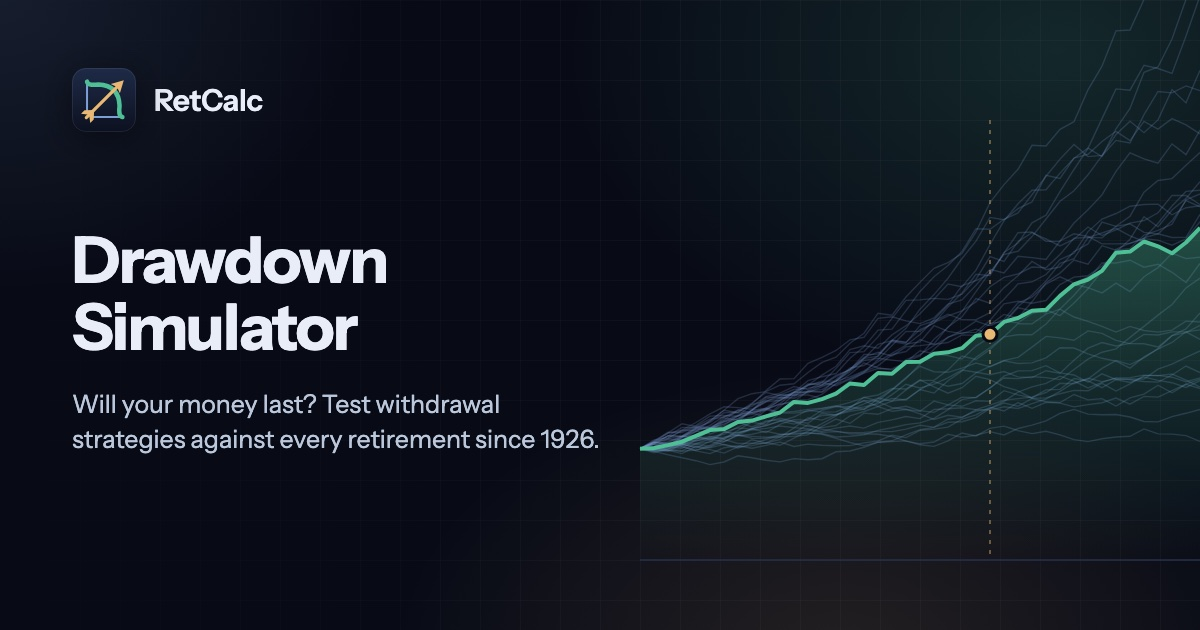
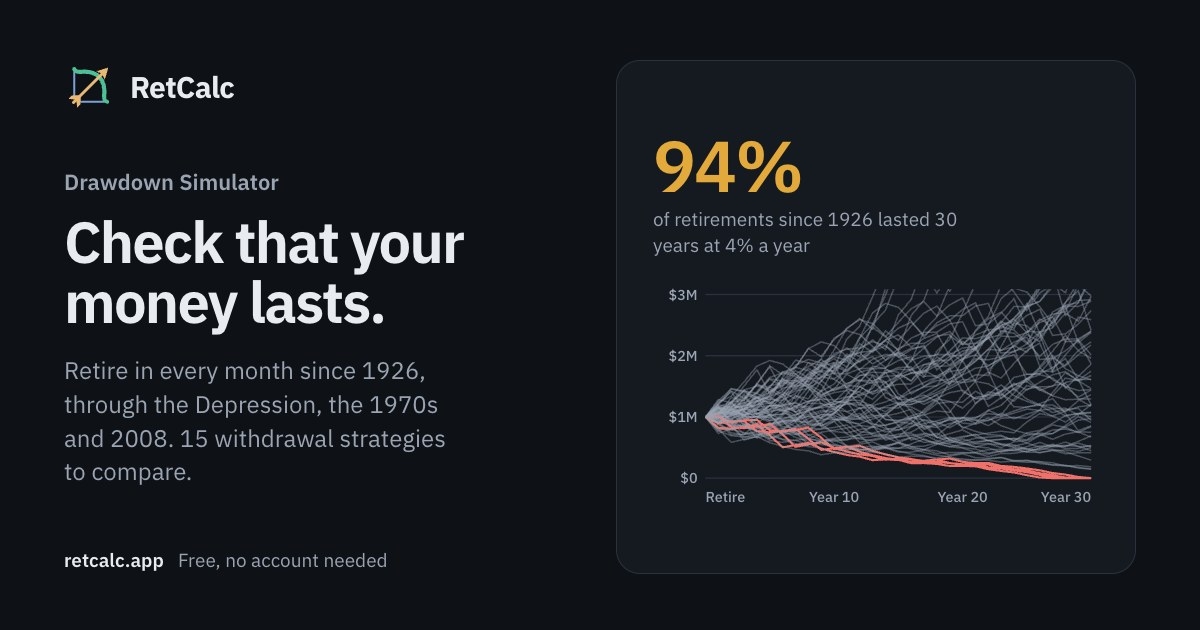
Link-preview cards in the redesign's look, with updated wording
Each page's card is now drawn from the site itself (app/og-card, dev only)
with the homepage's chart views, the dark theme's tokens and IBM Plex Sans,
and saved by scripts/og/render.mjs. The Calculator gets its own card. The
words live in lib/cards.ts and double as the image's alt text; the strategy
pages' ledes move to their own list, unchanged.

diff --git a/web/lib/cards.ts b/web/lib/cards.ts
@@ -1,0 +1,93 @@
+/* Each page's link-preview card (the picture a link shows in Messages,
+   Slack or a social feed): the tool's name, the question it answers, one
+   line under it, and which of the homepage's charts it shows. The cards are
+   drawn by app/og-card (development only) and saved as public/og/<slug>.jpg
+   by scripts/og/render.mjs; the words are also the image's alt text.
+   Pages without a card of their own (About, Privacy, Account) use the
+   site's card, public/og.png, drawn from "home". */
+import type { Slug } from "@/lib/site";
+
+export type CardChart = "fan" | "growth" | "score" | "fire" | "bridge" | "health" | "cloud" | "roth"
+  | "tax" | "rentbuy" | "mortgage" | "budget" | "college" | "debt" | "tools";
+
+export interface Card {
+  /** The tool's name, small above the title. */
+  kick?: string;
+  title: string;
+  text: string;
+  chart: CardChart;
+  /** Show the Drawdown Simulator's "lasted 30 years" figure (only where the
+      page opens on the same 4% plan the figure comes from). */
+  lasted?: boolean;
+}
+
+const SINCE = "every retirement since 1926";
+
+export const CARDS: Partial<Record<Slug, Card>> = {
+  home: { title: "Know your number.", chart: "fan", lasted: true,
+    text: "Retirement planning tools that check your plan against every market since 1926." },
+  calculator: { kick: "Retirement Calculator", title: "See what your savings grow to.", chart: "growth",
+    text: "Your age, what you've saved and what you add each month, and what it all grows to by retirement." },
+  advanced: { kick: "Advanced Calculator", title: "Taxes, fees and market swings, built in.", chart: "growth",
+    text: "Account types, inflation, fees and a glide path, with every year laid out." },
+  stages: { kick: "Stages Calculator", title: "A plan that changes as your life does.", chart: "growth",
+    text: "Save in stages, with different contributions, returns and mixes for each." },
+  guide: { kick: "Retirement Readiness Guide", title: "Get a readiness score.", chart: "score",
+    text: "One question at a time: a score out of 100, a plan, and what to do next." },
+  tools: { kick: "RetCalc", title: "A calculator, a guide and 13 planning tools.", chart: "tools",
+    text: "Withdrawals, taxes, Roth conversions, healthcare, FIRE, housing and budgets, sharing one household." },
+
+  drawdown: { kick: "Drawdown Simulator", title: "Check that your money lasts.", chart: "fan", lasted: true,
+    text: "Retire in every month since 1926, through the Depression, the 1970s and 2008. 15 withdrawal strategies to compare." },
+  "4-percent-rule": { kick: "4% Rule Calculator", title: "Does 4% still work?", chart: "fan", lasted: true,
+    text: `Test it against ${SINCE}, and find your own safe rate.` },
+  guardrails: { kick: "Guyton-Klinger Guardrails", title: "Start higher, cut when markets fall.", chart: "fan",
+    text: `How deep did the cuts go? Tested against ${SINCE}.` },
+  vpw: { kick: "VPW Calculator", title: "Spend it all, never run out.", chart: "fan",
+    text: `Variable percentage withdrawal, tested against ${SINCE}. How low did spending go?` },
+  "vanguard-dynamic-spending": { kick: "Vanguard Dynamic Spending", title: "Spending that moves, within limits.", chart: "fan",
+    text: "A share of the portfolio, up at most 5% or down at most 2.5% a year. Tested since 1926." },
+  "risk-based-guardrails": { kick: "Risk-Based Guardrails", title: "Change spending only when the odds move.", chart: "fan",
+    text: "Adjust when the chance of lasting leaves a band. How often did it move, and how far?" },
+  "rmd-withdrawal-strategy": { kick: "RMD Withdrawal Strategy", title: "Spend by the IRS table.", chart: "fan",
+    text: `The balance divided by the life-expectancy divisor, every year. Tested against ${SINCE}.` },
+  "ratcheting-withdrawal": { kick: "Ratcheting Withdrawals", title: "The 4% rule, with raises.", chart: "fan",
+    text: "10% more whenever the portfolio is up 50%. How often did the raises come?" },
+  "cape-withdrawal": { kick: "CAPE-Based Withdrawals", title: "Spend more when stocks are cheap.", chart: "fan",
+    text: "And less when they're expensive. Today's rate, and how it did since 1926." },
+
+  optimizer: { kick: "Plan Optimizer", title: "Decide when to claim Social Security.", chart: "cloud",
+    text: "Thousands of claiming ages, withdrawal orders and Roth conversions, to find the plan that leaves you the most." },
+  bridge: { kick: "Early Retirement Bridge", title: "Pay for the years before 59½.", chart: "bridge",
+    text: "A Roth ladder, 72(t) payments, the rule of 55 or your brokerage account, with the tax and penalties of each." },
+  "72t": { kick: "72(t) Calculator", title: "Penalty-free IRA payments before 59½.", chart: "bridge",
+    text: "Your payment by the amortization or RMD method, planned as part of your early-retirement bridge." },
+  roth: { kick: "Roth Conversion & RMDs", title: "Plan for required distributions.", chart: "roth",
+    text: "Your required withdrawals to age 100, and what a conversion schedule saves against doing nothing." },
+  rmd: { kick: "RMD Calculator", title: "Your required distributions to 100.", chart: "roth",
+    text: "Every year's required minimum, and what converting to Roth first would save." },
+  healthcare: { kick: "Healthcare Cost Planner", title: "Price health insurance until Medicare.", chart: "health",
+    text: "ACA premiums and subsidies, then Part B, Part D and IRMAA by income." },
+  fire: { kick: "FIRE Calculator", title: "Find the year work becomes optional.", chart: "fire",
+    text: "When your portfolio reaches financial independence, or when you can coast." },
+  backtest: { kick: "Portfolio Backtest", title: "What would your mix have done?", chart: "fan",
+    text: "Stocks, small value, bonds and cash, every year back to 1926." },
+
+  incometax: { kick: "Income Tax", title: "See where your paycheck goes.", chart: "tax",
+    text: "2026 federal, state and FICA tax in all 50 states, on a salary or a year of retirement withdrawals." },
+  rentbuy: { kick: "Rent vs. Buy", title: "Should you rent or buy?", chart: "rentbuy",
+    text: "Buyer and renter net worth over any horizon, down payment and home value included." },
+  mortgage: { kick: "Mortgage Calculator", title: "Your payment, year by year.", chart: "mortgage",
+    text: "Taxes, PMI and extra payments, and how much of each year goes to interest." },
+  budget: { kick: "Budget", title: "See where your money goes.", chart: "budget",
+    text: "Lay out your income and spending, and see what's left each month." },
+  college: { kick: "College Savings", title: "How much to save for college.", chart: "college",
+    text: "The monthly amount that covers tuition, from state school to elite." },
+  debt: { kick: "Debt Payoff", title: "Avalanche or snowball?", chart: "debt",
+    text: "List what you owe and watch both methods race to your payoff date." },
+};
+
+/** The card's words as one line, for the image's alt text. */
+export function cardAlt(c: Card): string {
+  return (c.kick && c.kick !== "RetCalc" ? c.kick + ": " : "RetCalc: ") + c.title + " " + c.text;
+}

diff --git a/web/components/og/OgCard.tsx b/web/components/og/OgCard.tsx
@@ -1,0 +1,133 @@
+/* A link-preview card, 1200 by 630: the page's name and question on the
+   left, the homepage's chart of the tool on the right, in the site's dark
+   theme. Drawn by app/og-card (development only) and saved as an image by
+   scripts/og/render.mjs; the words are in lib/cards.ts. */
+
+import { Brandmark } from "@/components/shell/Brandmark";
+import {
+  BridgeChart, BudgetChart, CloudChart, FanChart, FireChart, GrowthChart, HealthChart, MortgageChart, RentBuyChart, RothChart, ScoreRing, TaxChart,
+} from "@/components/home/charts";
+import type { HomeData } from "@/components/home/data";
+import type { Card } from "@/lib/cards";
+import { money } from "@/lib/format";
+import { STATE_OPTIONS } from "@/lib/states";
+import s from "./og.module.css";
+
+type Pt = [number, number];
+const d = (pts: Pt[]) => pts.map((p, i) => (i ? "L" : "M") + p[0].toFixed(1) + " " + p[1].toFixed(1)).join("");
+
+export function OgCard({ card, data }: { card: Card; data: HomeData }) {
+  const home = !card.kick;
+  return (
+    <div className={"hm " + s.card} data-og-card="">
+      <div className={s.copy}>
+        <div className={s.brand}><Brandmark /><span>RetCalc</span></div>
+        <div className={s.mid}>
+          {card.kick && card.kick !== "RetCalc" ? <div className={s.kick}>{card.kick}</div> : null}
+          {home
+            ? <h1 className={s.display}>Know your <em>number.</em></h1>
+            : <h1 className={s.title}>{card.title}</h1>}
+          <p className={s.text}>{card.text}</p>
+        </div>
+        <div className={s.foot}><b>retcalc.app</b><span>Free, no account needed</span></div>
+      </div>
+      <div className={s.panel}>
+        {card.lasted ? (
+          <div className={s.reading}>
+            <div className={s.v}>{Math.round(data.lasted * 100)}%</div>
+            <div className={s.k}>of retirements since 1926 lasted 30 years at 4% a year</div>
+          </div>
+        ) : card.chart === "tax" ? (
+          <div className={s.reading}>
+            <div className={s.v}>{money(data.tax.takeHome)}</div>
+            <div className={s.k}>take-home from a {money(data.tax.gross)} salary in {STATE_OPTIONS.find((o) => o.code === data.tax.stateName)?.name ?? data.tax.stateName}</div>
+          </div>
+        ) : card.chart === "growth" ? (
+          <div className={s.reading}>
+            <div className={s.v}>{money(data.growth[data.growth.length - 1])}</div>
+            <div className={s.k}>at 65, from $60,000 at 32 and $1,500 a month</div>
+          </div>
+        ) : null}
+        <div className={s.chart + " " + (s[card.chart] ?? "")}><Chart card={card} data={data} /></div>
+        {card.chart === "cloud" ? <div className={s.k}>Each dot is a plan. The ring marks the one that leaves you the most.</div> : null}
+      </div>
+    </div>
+  );
+}
+
+function Chart({ card, data }: { card: Card; data: HomeData }) {
+  switch (card.chart) {
+    // Only the 4% pages show which retirements ran out: the paths are the
+    // 4% plan's, and other strategies run out at different times or never.
+    case "fan": return card.lasted
+      ? <FanChart fan={data.fan} w={340} h={170} />
+      : <FanChart fan={{ lines: data.fan.lines, failed: data.fan.failed.map(() => false) }} w={340} h={290} />;
+    case "growth": return <GrowthChart values={data.growth} w={340} h={180} />;
+    case "score": return <ScoreRing />;
+    case "fire": return <FireChart w={340} h={260} />;
+    case "bridge": return <BridgeChart w={250} h={110} />;
+    case "health": return <HealthChart w={340} h={260} />;
+    case "cloud": return <CloudChart />;
+    case "roth": return <RothChart w={340} h={260} />;
+    case "tax": return <TaxChart tax={data.tax} w={340} h={130} />;
+    case "rentbuy": return <RentBuyChart rb={data.rentbuy} w={340} h={250} />;
+    case "mortgage": return <MortgageChart years={data.mortgage} w={340} h={260} />;
+    case "budget": return <BudgetChart w={280} h={130} />;
+    case "college": return <CollegeChart />;
+    case "debt": return <DebtChart />;
+    case "tools": return <ToolsGrid />;
+  }
+}
+
+/** College: monthly saving rising to the cost of four years (illustration). */
+function CollegeChart({ w = 340, h = 250 }) {
+  const goal = 150, pts: Pt[] = [];
+  let v = 4;
+  for (let a = 0; a <= 18; a++) { pts.push([10 + a * (w - 20) / 18, h - 10 - (v / goal) * (h - 50)]); v = v * 1.055 + 4.4; }
+  const gy = h - 10 - (h - 50);
+  return (
+    <svg className="hm-chart" viewBox={`0 0 ${w} ${h}`} aria-hidden="true">
+      <line className="hm-dash" x1={10} x2={w - 10} y1={gy} y2={gy} />
+      <text x={10} y={gy - 10}>Four years of tuition</text>
+      <path className="hm-ln" d={d(pts)} />
+      <circle className="hm-dot" cx={w - 10} cy={pts[18][1]} r={5} />
+      <text x={10} y={h + 14}>Birth</text>
+      <text x={w - 10} y={h + 14} textAnchor="end">18</text>
+    </svg>
+  );
+}
+
+/** Debt payoff: the avalanche and snowball balances racing to zero (illustration). */
+function DebtChart({ w = 340, h = 250 }) {
+  const line = (rate: number, end: number) => {
+    const pts: Pt[] = [];
+    for (let m = 0; m <= end; m++) { const f = 1 - Math.pow(m / end, rate); pts.push([10 + m * (w - 20) / 60, 30 + (1 - f) * (h - 70)]); }
+    return pts;
+  };
+  const av = line(1.5, 42), sn = line(1.2, 58);
+  return (
+    <svg className="hm-chart" viewBox={`0 0 ${w} ${h}`} aria-hidden="true">
+      <g>
+        <rect className="f-teal" x={10} y={2} width={9} height={9} rx={2} /><text x={24} y={10.5}>Avalanche</text>
+        <rect className="f-sky" x={110} y={2} width={9} height={9} rx={2} /><text x={124} y={10.5}>Snowball</text>
+      </g>
+      <path className="hm-ln hm-thin s-sky" d={d(sn)} />
+      <path className="hm-ln hm-thin s-teal" d={d(av)} />
+      <circle className="hm-dot" cx={av[av.length - 1][0]} cy={av[av.length - 1][1]} r={5} />
+      <text className="hm-t-ink" x={av[av.length - 1][0]} y={av[av.length - 1][1] + 26} textAnchor="middle">Debt-free</text>
+    </svg>
+  );
+}
+
+/** The tools page: four of the homepage's tool views, each with its name. */
+function ToolsGrid() {
+  const tiles: [string, React.ReactNode][] = [
+    ["FIRE", <FireChart key="f" w={200} h={120} />], ["Early retirement", <BridgeChart key="b" w={200} h={110} />],
+    ["Healthcare", <HealthChart key="h" w={200} h={120} />], ["Roth & RMDs", <RothChart key="r" w={200} h={120} />],
+  ];
+  return (
+    <div className={s.grid}>
+      {tiles.map(([n, c]) => <div key={n} className={s.mini}><span>{n}</span>{c}</div>)}
+    </div>
+  );
+}

diff --git a/web/lib/site.ts b/web/lib/site.ts
@@ -50,35 +50,16 @@ export const TOOL_SUB: Partial<Record<Slug, ToolSub>> = {
 /** Old addresses, sent on to their new ones. */
 export const ALIASES: Record<string, Slug> = { single: "advanced", series: "stages" };
 
-/** The link-preview card's alt text, per page; home and about use the site card. */
-export const CARD_ALT: Partial<Record<Slug, string>> = {
-  "drawdown": "Drawdown Simulator: Will your money last? Test withdrawal strategies against every retirement since 1926.",
-  "4-percent-rule": "4% Rule Calculator: Does 4% still work? Test it against every retirement since 1926, and find your own safe rate.",
-  "guardrails": "Guardrails Calculator: Guyton-Klinger guardrails: start higher, cut when markets fall. How deep did the cuts go?",
-  "vpw": "VPW Calculator: Variable percentage withdrawal: spend it all by the end, never run out. How low did it go?",
-  "vanguard-dynamic-spending": "Vanguard Dynamic Spending: A share of the portfolio, but spending moves at most +5% or −2.5% a year. Tested since 1926.",
-  "risk-based-guardrails": "Risk-Based Guardrails: Change spending only when the odds of lasting leave a band. How often did it move, and how far?",
-  "rmd-withdrawal-strategy": "RMD Withdrawal Strategy: Spend the balance divided by the IRS life-expectancy divisor, every year. Tested since 1926.",
-  "ratcheting-withdrawal": "Ratcheting Withdrawals: The 4% rule with raises: 10% more whenever the portfolio is up 50%. How often did they come?",
-  "cape-withdrawal": "CAPE-Based Withdrawals: Spend more when stocks are cheap, less when they're dear. Today's rate, and how it did since 1926.",
-  "optimizer": "Plan Optimizer: When to claim, what to withdraw, what to convert: thousands of plans, every market since 1926.",
-  "bridge": "Early Retirement Bridge: Retiring before 59½? Compare a Roth ladder, 72(t), the rule of 55 and your brokerage.",
-  "72t": "72(t) Calculator: Penalty-free IRA payments before 59½, sized and tested against every market since 1926.",
-  "backtest": "Portfolio Backtest: Pick a mix of stocks, small value, bonds and cash and see what it did, every year back to 1926.",
-  "incometax": "Income Tax: Your 2026 federal, state and FICA tax, on a salary or on a year of retirement withdrawals.",
-  "roth": "Roth Conversion & RMDs: Project required distributions to 100, then test a conversion schedule against doing nothing.",
-  "rmd": "RMD Calculator: Your required minimum distributions every year to 100, and what converting first would save.",
-  "mortgage": "Mortgage Calculator: Your monthly payment, how the balance falls, and the amortization year by year.",
-  "college": "College Savings: How much to save each month to cover tuition, from state school to elite.",
-  "rentbuy": "Rent vs. Buy: Buyer and renter net worth over any horizon, down payment and home value included.",
-  "budget": "Budget: Lay out your income and expenses, see what's left, and find out where your money goes.",
-  "debt": "Debt Payoff: List what you owe, then watch the avalanche and snowball methods race to your payoff date.",
-  "healthcare": "Healthcare Cost Planner: ACA premiums and subsidies before Medicare, then Part B, Part D and IRMAA by income.",
-  "fire": "FIRE Calculator: Find when your portfolio reaches financial independence, or when you can coast.",
-  "advanced": "Advanced Calculator: Growth, inflation, taxes, fees and market swings, with account types and a glide path.",
-  "stages": "Stages Calculator: Save in stages, with different contributions, returns and mixes as life changes.",
-  "guide": "Retirement Readiness Guide: One question at a time: a readiness score out of 100, a plan, and what to do next.",
-  "tools": "Retirement Tools: Drawdown, taxes, Roth conversions, healthcare, FIRE, budgets and more."
+/** Each strategy page's line under its heading, after the page's name. */
+const STRATEGY_LEDE: Partial<Record<Slug, string>> = {
+  "4-percent-rule": "Does 4% still work? Test it against every retirement since 1926, and find your own safe rate.",
+  "guardrails": "Guyton-Klinger guardrails: start higher, cut when markets fall. How deep did the cuts go?",
+  "vpw": "Variable percentage withdrawal: spend it all by the end, never run out. How low did it go?",
+  "vanguard-dynamic-spending": "A share of the portfolio, but spending moves at most +5% or −2.5% a year. Tested since 1926.",
+  "risk-based-guardrails": "Change spending only when the odds of lasting leave a band. How often did it move, and how far?",
+  "rmd-withdrawal-strategy": "Spend the balance divided by the IRS life-expectancy divisor, every year. Tested since 1926.",
+  "ratcheting-withdrawal": "The 4% rule with raises: 10% more whenever the portfolio is up 50%. How often did they come?",
+  "cape-withdrawal": "Spend more when stocks are cheap, less when they're dear. Today's rate, and how it did since 1926."
 };
 
 /** The eight strategy pages (the Drawdown Simulator set up for one
@@ -89,11 +70,9 @@ export function isStrategyPage(slug: Slug): boolean {
   return (STRATEGY_PAGES as readonly Slug[]).includes(slug);
 }
 
-/** A strategy page's own line under its heading: its preview card's text
-    after the page's name (the question the page answers). */
+/** A strategy page's own line under its heading (the question the page answers). */
 export function strategyLede(slug: Slug): string | null {
-  const alt = isStrategyPage(slug) ? CARD_ALT[slug] : undefined;
-  return alt ? alt.slice(alt.indexOf(": ") + 2) : null;
+  return isStrategyPage(slug) ? STRATEGY_LEDE[slug] ?? null : null;
 }
 
 /** Pages laid out in one column (the rest put inputs beside results). */

diff --git a/web/components/og/og.module.css b/web/components/og/og.module.css
@@ -1,0 +1,35 @@
+/* The link-preview card (OgCard.tsx), 1200 by 630. The renderer takes it
+   out of the page around it before the screenshot. Colors are the dark theme's
+   tokens; the renderer asks for dark mode. */
+.card{position:fixed;inset:0 auto auto 0;width:1200px;height:630px;box-sizing:border-box;
+  display:grid;grid-template-columns:minmax(0,1fr) 520px;gap:56px;padding:60px 64px 56px;
+  background:var(--ds-ground);color:var(--ds-text);font-family:var(--sans);overflow:hidden}
+
+.copy{display:flex;flex-direction:column;min-width:0}
+.brand{display:flex;align-items:center;gap:14px;font-size:30px;font-weight:700;letter-spacing:-.025em}
+.brand :global(.brandmark){width:52px;height:52px}
+.mid{flex:1;display:flex;flex-direction:column;justify-content:center;padding:8px 0 12px}
+.kick{font-size:22px;font-weight:600;color:var(--ds-muted);margin-bottom:14px}
+.title{margin:0;font-size:58px;line-height:1.04;font-weight:650;letter-spacing:-.03em;text-wrap:balance}
+.display{margin:0;font-size:96px;line-height:.98;font-weight:650;letter-spacing:-.045em}
+.display em{font-style:normal;color:var(--ds-amber)}
+.text{margin:22px 0 0;font-size:24px;line-height:1.4;color:var(--ds-muted);max-width:30ch;text-wrap:pretty}
+.foot{display:flex;align-items:baseline;gap:14px;font-size:19px;color:var(--ds-muted)}
+.foot b{color:var(--ds-text);font-weight:600}
+
+.panel{display:flex;flex-direction:column;justify-content:center;gap:26px;min-width:0;
+  background:var(--ds-surface);border:1px solid var(--ds-rule);border-radius:24px;padding:36px 36px 34px}
+.reading{display:flex;flex-direction:column;gap:6px}
+.v{font-size:72px;line-height:1;font-weight:600;letter-spacing:-.03em;color:var(--ds-amber);font-variant-numeric:tabular-nums}
+.k{font-size:19px;line-height:1.35;color:var(--ds-muted);max-width:28ch}
+
+/* Each chart's labels are set in its own units; these keep them readable at
+   the card's size. */
+.chart{min-width:0}
+.chart :global(svg.hm-chart){width:100%;height:auto;overflow:visible}
+.score{width:300px;margin:0 auto}
+.fire :global(svg.hm-chart){overflow:hidden}
+
+.grid{display:grid;grid-template-columns:1fr 1fr;grid-auto-rows:1fr;gap:16px}
+.mini{display:flex;flex-direction:column;justify-content:space-between;gap:14px;padding:18px 18px 16px;border:1px solid var(--ds-rule);border-radius:16px;background:var(--ds-ground)}
+.mini span{font-size:18px;font-weight:600;color:var(--ds-text)}

diff --git a/web/app/og-card/[slug]/page.tsx b/web/app/og-card/[slug]/page.tsx
@@ -1,0 +1,22 @@
+/* Link-preview cards, one per page, for scripts/og/render.mjs to save as
+   images. Development only: the production build has no pages here. */
+
+import { notFound } from "next/navigation";
+import { OgCard } from "@/components/og/OgCard";
+import { homeData } from "@/components/home/data";
+import { CARDS } from "@/lib/cards";
+import type { Slug } from "@/lib/site";
+
+export const dynamicParams = false;
+export const metadata = { robots: { index: false, follow: false } };
+
+export function generateStaticParams() {
+  return process.env.NODE_ENV === "development" ? Object.keys(CARDS).map((slug) => ({ slug })) : [];
+}
+
+export default async function CardPage({ params }: { params: Promise<{ slug: string }> }) {
+  const { slug } = await params;
+  const card = CARDS[slug as Slug];
+  if (process.env.NODE_ENV !== "development" || !card) notFound();
+  return <OgCard card={card} data={homeData()} />;
+}

diff --git a/web/lib/seo.ts b/web/lib/seo.ts
@@ -3,11 +3,12 @@
    engines see no change when the site switches over. */
 import type { Metadata } from "next";
 import { articleFaq } from "@/lib/articles";
-import { CARD_ALT, PAGES, SITE, urlFor, type Slug } from "@/lib/site";
+import { CARDS, cardAlt } from "@/lib/cards";
+import { PAGES, SITE, urlFor, type Slug } from "@/lib/site";
 
 function card(slug: Slug): { url: string; alt: string } {
-  const alt = CARD_ALT[slug];
-  return alt ? { url: `${SITE}/og/${slug}.jpg`, alt } : { url: `${SITE}/og.png`, alt: "RetCalc: know your number." };
+  const c = slug !== "home" ? CARDS[slug] : undefined;
+  return c ? { url: `${SITE}/og/${slug}.jpg`, alt: cardAlt(c) } : { url: `${SITE}/og.png`, alt: cardAlt(CARDS.home!) };
 }
 
 export function metadataFor(slug: Slug): Metadata {

diff --git a/DESIGN.md b/DESIGN.md
@@ -217,6 +217,7 @@ Graphite neutrals with a single Signal Amber accent, plus a fixed gain/loss pair
 
 ### Print and share
 - The printed summary and the share image card use their own fixed palettes, separate from the screen theme. They are restyled in a separate, later pass; until then a theme change must never leak into them by accident.
+- **Link-preview cards** (the 1200×630 picture a shared link shows) are drawn in the dark theme's tokens with the homepage's chart views: the brand mark and wordmark, the tool's name in Muted, its question as a headline, one line under it, and the tool's chart on a Surface panel, with at most one amber figure (the homepage's reading) above it. Words in `web/lib/cards.ts`, layout in `web/components/og/`, images saved by `node scripts/og/render.mjs` from the dev server into `web/public/og/` and `web/public/og.png`. Rerender after changing a card's words or a chart.
 
 ### Named Rules
 **The Four Places Rule.** Amber appears only on the key result, the primary button, the active tab, and "your plan" in charts. Not on links, headings, hover states, icons, focus rings, or decoration. If a fifth place seems to need it, it doesn't. Two exemptions, and only these: the brand mark keeps its own colors, and the brand motif's bullseye turns amber at the moment it is hit.
